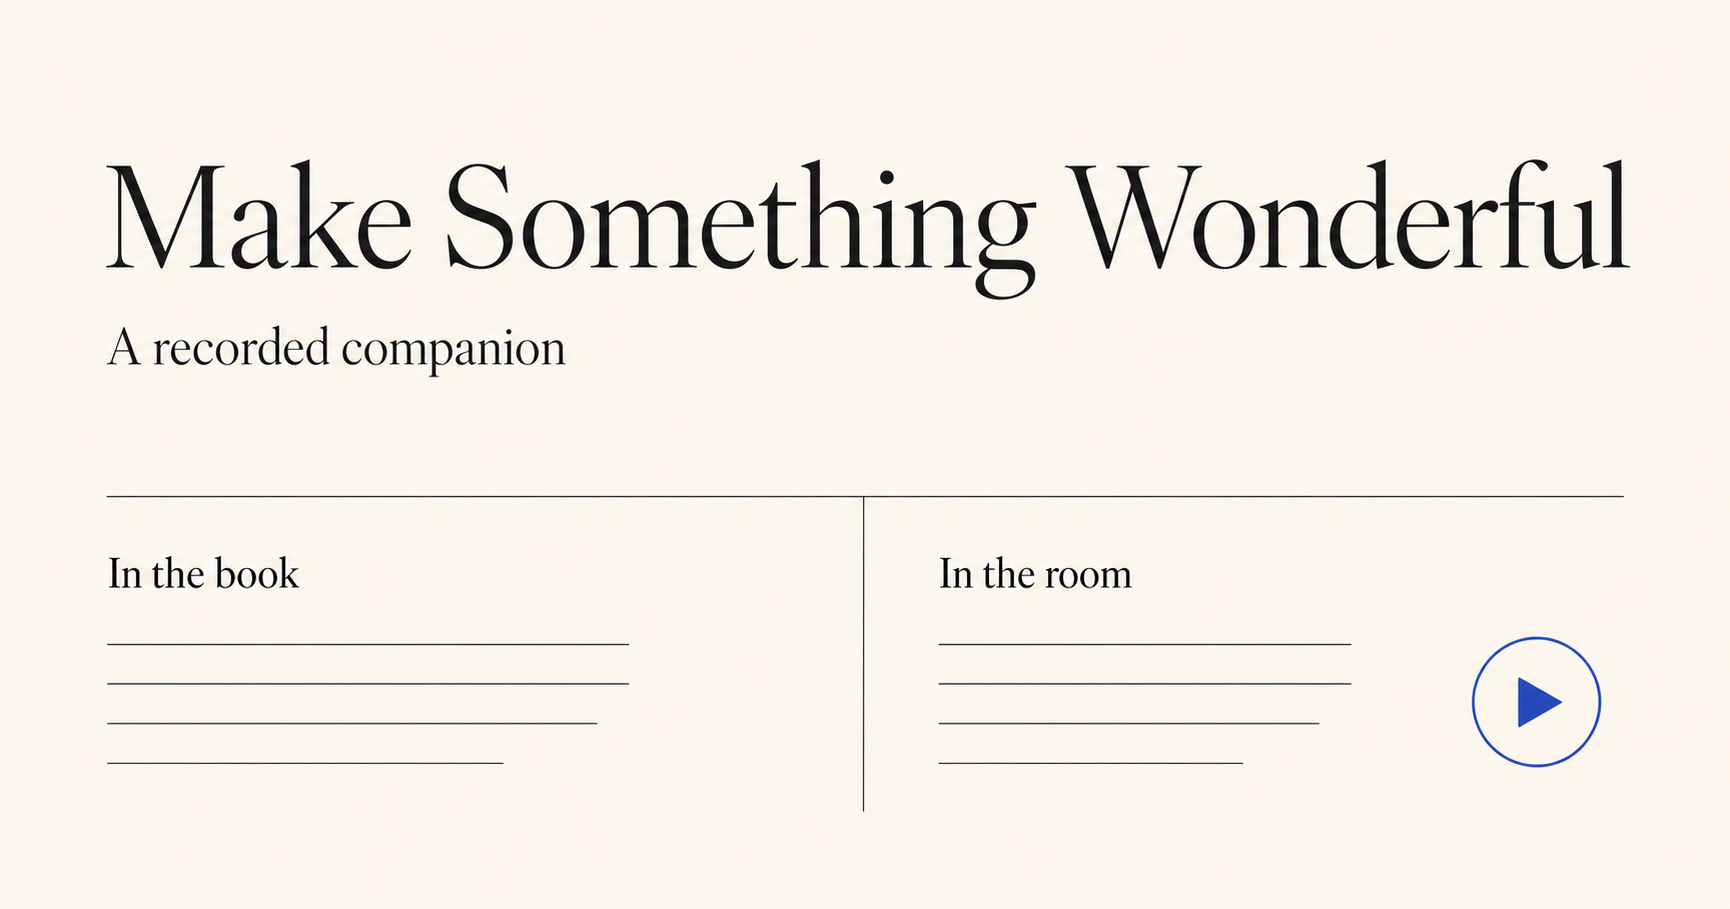
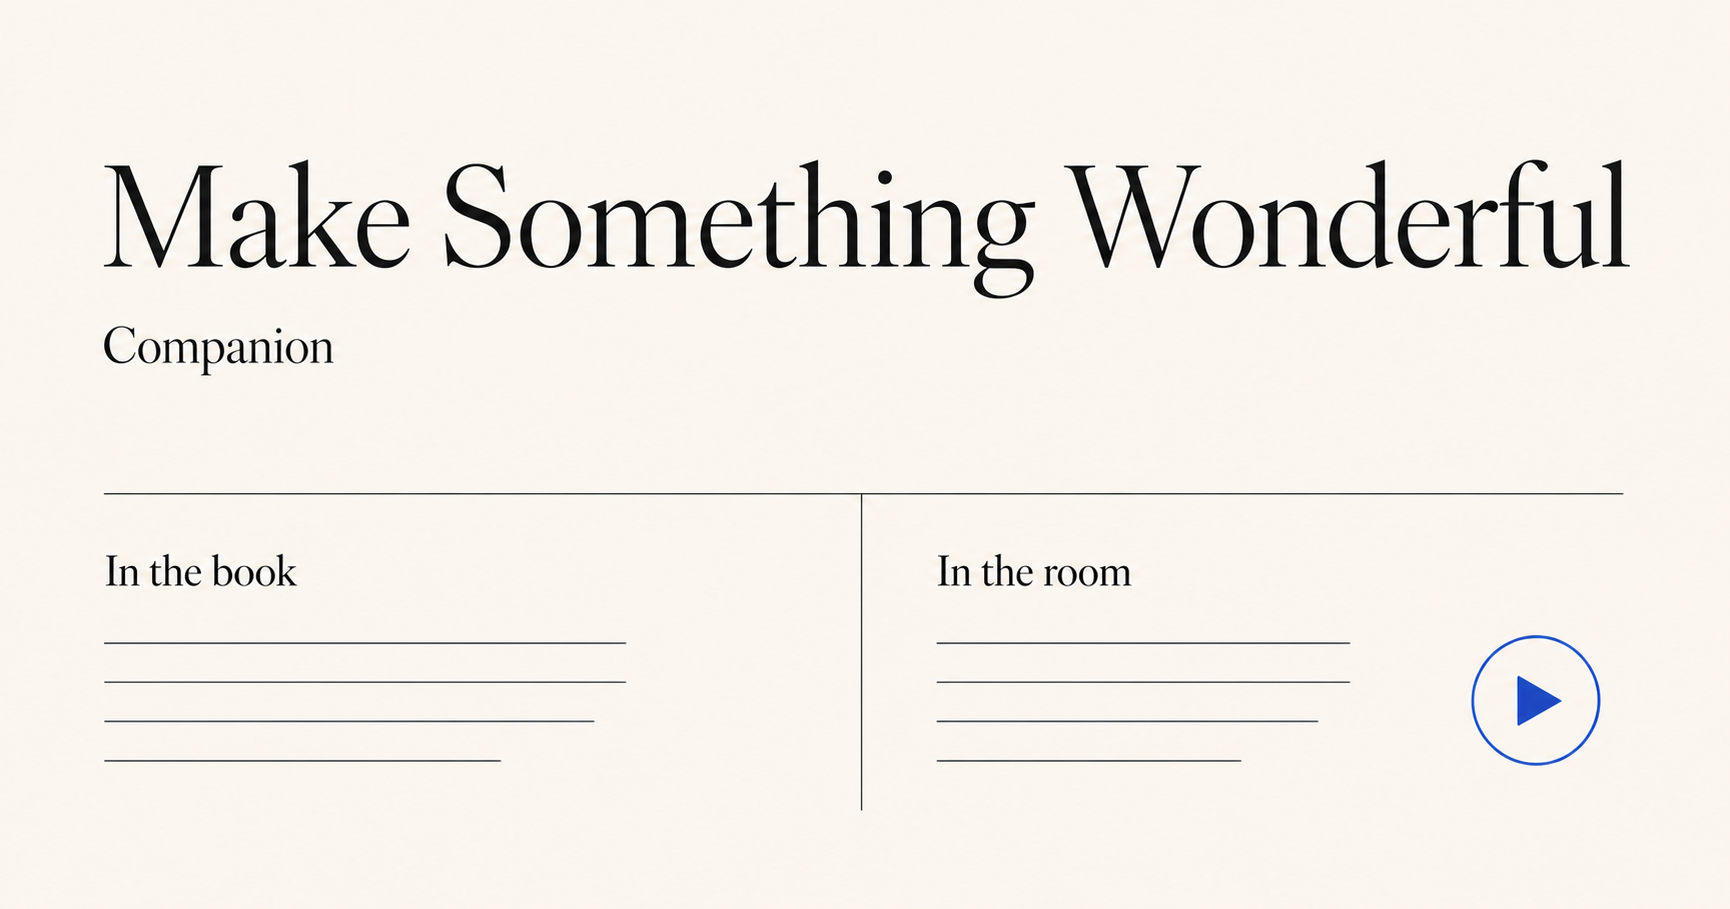
Rename project as companion

diff --git a/app/page.tsx b/app/page.tsx
@@ -292,26 +292,46 @@ export default function Home() {
   return (
     <main className="site-frame">
       <header className="masthead">
-        <button className="wordmark" onClick={() => stepTo(timelineEntries[0])} aria-label="Make Something Wonderful home">
-          <span className="wordmark-title">Make Something Wonderful</span>
+        <button className="wordmark" onClick={() => stepTo(timelineEntries[0])} aria-label="Make Something Wonderful Companion home">
+          <span className="wordmark-title">Make Something Wonderful Companion</span>
         </button>
         <div className="info-menu" ref={infoRef}>
           <button
             type="button"
             className="info-trigger"
-            aria-label="About this website"
+            aria-label="About Make Something Wonderful Companion"
             aria-expanded={infoOpen}
             aria-controls="site-information"
-            title="About this website"
+            title="About Make Something Wonderful Companion"
             onClick={() => setInfoOpen((open) => !open)}
           >
             <Info aria-hidden="true" />
           </button>
           {infoOpen && (
-            <div className="info-popover" id="site-information" role="dialog" aria-label="About this website">
-              <p>Compare 17 passages from <cite>Make Something Wonderful</cite> with the speeches and interviews they came from.</p>
-              <p>Use the numbered timeline or the arrow keys to move through the book. Public recordings are linked where available.</p>
-            </div>
+            <section className="info-popover" id="site-information" aria-labelledby="site-information-title">
+              <h2 id="site-information-title">About this companion</h2>
+              <p>This is an independent companion to <cite>Make Something Wonderful</cite>, the book published by the Steve Jobs Archive.</p>
+              <p>It pairs 17 passages from the book with the speeches and interviews they came from.</p>
+              <nav className="info-links" aria-label="Official book and archive links">
+                <a
+                  href="https://stevejobsarchive.com/"
+                  target="_blank"
+                  rel="noopener noreferrer"
+                  aria-label="Visit the Steve Jobs Archive in a new tab"
+                >
+                  Steve Jobs Archive <ArrowUpRight aria-hidden="true" />
+                </a>
+                <a
+                  href="https://book.stevejobsarchive.com/"
+                  target="_blank"
+                  rel="noopener noreferrer"
+                  aria-label="Read Make Something Wonderful in a new tab"
+                >
+                  Read the book <ArrowUpRight aria-hidden="true" />
+                </a>
+              </nav>
+              <p className="info-instruction">Use the numbered timeline or the arrow keys to move through the book.</p>
+            </section>
           )}
         </div>
       </header>

diff --git a/app/globals.css b/app/globals.css
@@ -85,6 +85,7 @@ button, a { -webkit-tap-highlight-color: transparent; }
   z-index: 20;
 }
 .wordmark {
+  min-width: 0;
   padding: 0;
   border: 0;
   background: transparent;
@@ -130,7 +131,14 @@ button, a { -webkit-tap-highlight-color: transparent; }
 }
 .info-popover p { margin: 0; }
 .info-popover p + p { margin-top: 10px; }
+.info-popover h2 { margin: 0 0 10px; color: var(--foreground); font-size: 13px; font-weight: 650; letter-spacing: -0.01em; }
 .info-popover cite { color: var(--foreground); font-style: normal; font-weight: 600; }
+.info-links { display: grid; margin-top: 15px; border-block: 1px solid var(--border); }
+.info-links a { display: flex; align-items: center; justify-content: space-between; gap: 12px; padding: 10px 0; color: var(--foreground); font-weight: 600; }
+.info-links a + a { border-top: 1px solid var(--border); }
+.info-links svg { width: 13px; height: 13px; transition: transform 150ms ease; }
+.info-links a:hover svg { transform: translate(2px, -2px); }
+.info-instruction { margin-top: 12px !important; }
 
 .archive-layout {
   display: grid;
@@ -368,7 +376,8 @@ button, a { -webkit-tap-highlight-color: transparent; }
 }
 @media (max-width: 680px) {
   .masthead { height: 64px; padding: 0 18px; }
-  .wordmark { font-size: 18px; }
+  .wordmark { font-size: clamp(15px, 4.5vw, 18px); line-height: 1.08; }
+  .wordmark-title { max-width: 250px; text-wrap: balance; }
   .archive-layout { display: block; height: auto; min-height: 0; overflow: visible; padding: 0; }
   .timeline-nav { display: none; }
   .comparison { display: block; height: auto; max-width: none; overflow: visible; padding: 34px 18px 32px; }

diff --git a/app/layout.tsx b/app/layout.tsx
@@ -13,18 +13,18 @@ const geistMono = Geist_Mono({
 });
 
 export const metadata: Metadata = {
-  title: 'Make Something Wonderful — A Recorded Companion',
-  description: 'Read the words. Hear the moment. A section-by-section companion to Make Something Wonderful.',
+  title: 'Make Something Wonderful Companion',
+  description: 'An independent companion to the book Make Something Wonderful, pairing 17 passages with public recordings and sources.',
   openGraph: {
-    title: 'Make Something Wonderful',
-    description: 'A recorded companion. Read the words, then hear the moment.',
+    title: 'Make Something Wonderful Companion',
+    description: 'Read the words, then hear the moment.',
     type: 'website',
-    images: [{ url: '/og.png', width: 1730, height: 909, alt: 'Make Something Wonderful — A recorded companion' }],
+    images: [{ url: '/og.png', width: 1730, height: 909, alt: 'Make Something Wonderful Companion' }],
   },
   twitter: {
     card: 'summary_large_image',
-    title: 'Make Something Wonderful',
-    description: 'A recorded companion. Read the words, then hear the moment.',
+    title: 'Make Something Wonderful Companion',
+    description: 'Read the words, then hear the moment.',
     images: ['/og.png'],
   },
   icons: {

diff --git a/README.md b/README.md
@@ -1,10 +1,10 @@
-# Make Something Wonderful — Book-to-Recording Companion
+# Make Something Wonderful Companion
 
 > Read the words. Hear the moment.
 
 [View the live site](https://make-something-wonderful.zmil4.chatgpt.site/)
 
-I made this as an independent reading companion to the Steve Jobs Archive book [*Make Something Wonderful*](https://book.stevejobsarchive.com/).
+I made this as an independent reading companion to the [Steve Jobs Archive](https://stevejobsarchive.com/) book [*Make Something Wonderful*](https://book.stevejobsarchive.com/).
 
 The book turns speeches, interviews, and conversations into a reading experience. This site puts some of the original context back around those words: the voice, pacing, audience, and room. It pairs 17 speech-derived passages with the closest public recording or source I could verify.
 
